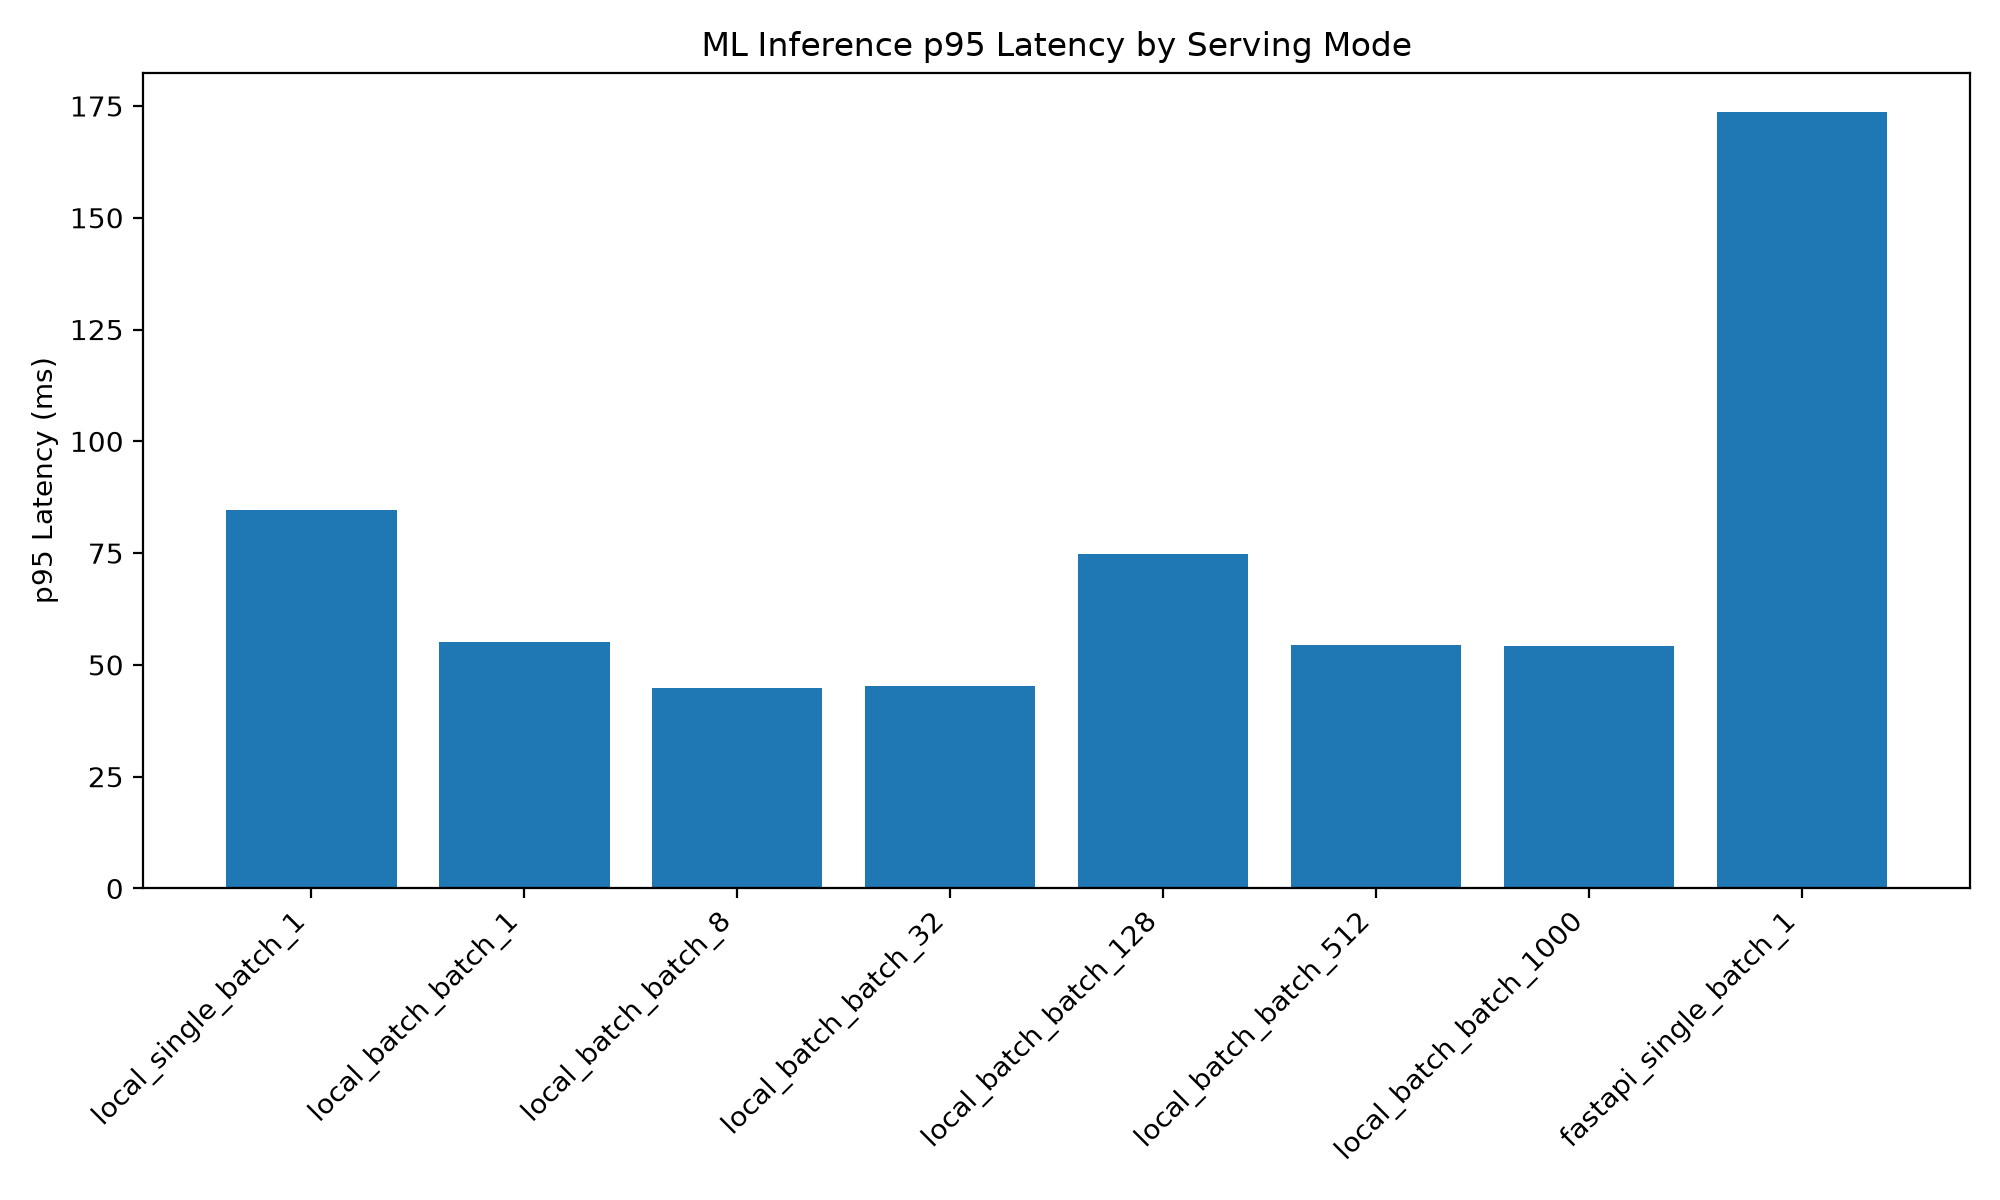
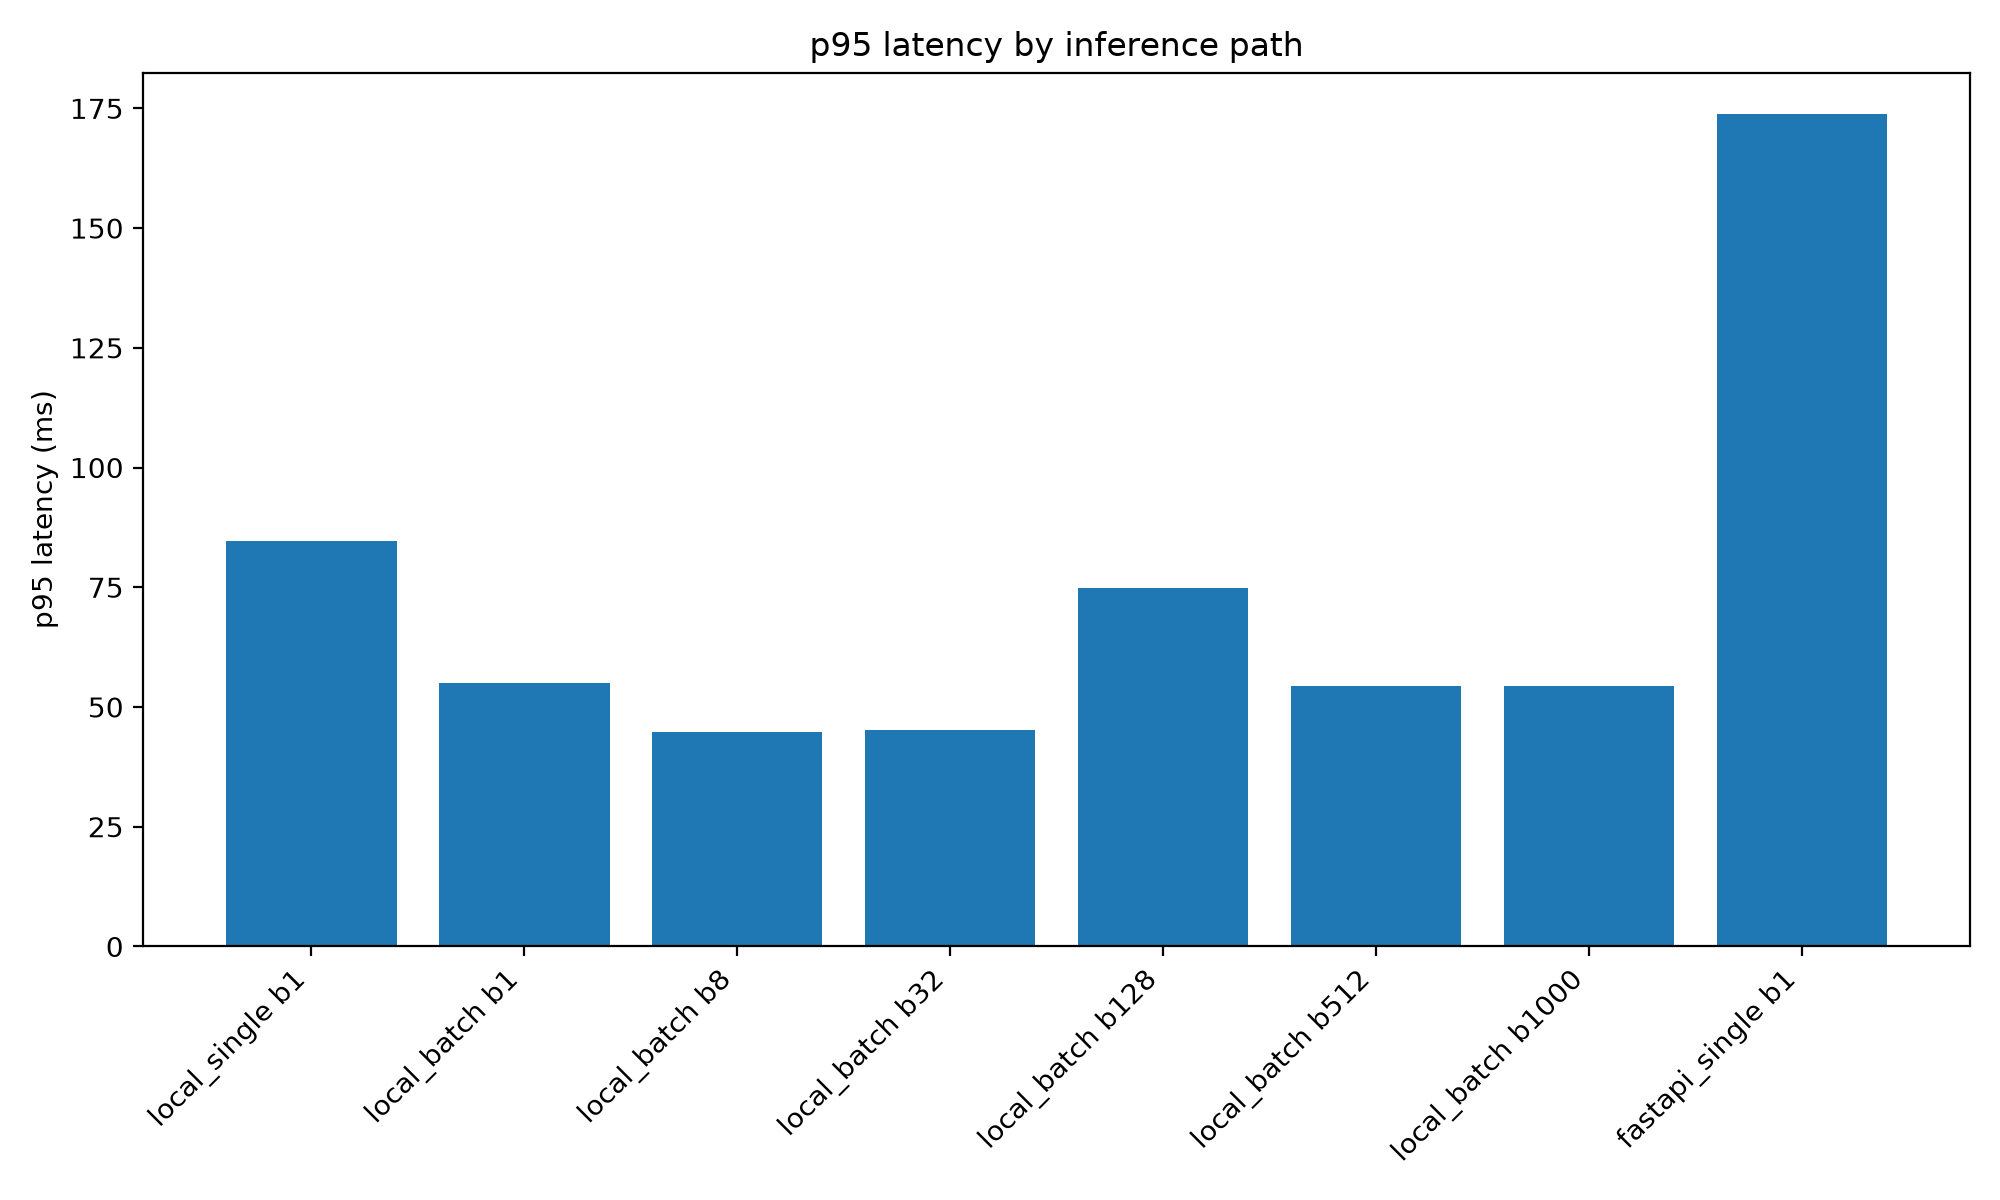
Add batch and concurrent API benchmarks

diff --git a/src/src/benchmark_batch_api.py b/src/src/benchmark_batch_api.py
@@ -1,0 +1,83 @@
+from pathlib import Path
+from time import perf_counter
+
+import numpy as np
+import pandas as pd
+import requests
+
+BASE_DIR = Path(__file__).resolve().parent.parent
+OUT_DIR = BASE_DIR / "results"
+OUT_DIR.mkdir(exist_ok=True)
+
+URL = "http://127.0.0.1:8000/predict_batch"
+
+
+def make_reading(seed: int) -> dict:
+    rng = np.random.default_rng(seed)
+
+    return {
+        "soil_moisture": float(rng.uniform(5, 90)),
+        "temperature": float(rng.uniform(10, 42)),
+        "rainfall": float(rng.uniform(0, 80)),
+        "humidity": float(rng.uniform(15, 95)),
+        "sunlight": float(rng.uniform(1, 13)),
+        "ndvi": float(rng.uniform(0.15, 0.95)),
+    }
+
+
+def latency_stats(times):
+    return {
+        "mean_latency_ms": float(np.mean(times)),
+        "p50_latency_ms": float(np.percentile(times, 50)),
+        "p95_latency_ms": float(np.percentile(times, 95)),
+        "p99_latency_ms": float(np.percentile(times, 99)),
+    }
+
+
+def run_batch(size: int, runs: int = 10) -> dict:
+    times = []
+    total_time = 0.0
+
+    for run in range(runs):
+        items = [make_reading(size * 1000 + run * 100 + i) for i in range(size)]
+
+        start = perf_counter()
+        response = requests.post(URL, json={"items": items}, timeout=30)
+        elapsed = perf_counter() - start
+
+        response.raise_for_status()
+
+        times.append(elapsed * 1000)
+        total_time += elapsed
+
+    row = {
+        "mode": "fastapi_batch",
+        "batch_size": size,
+        "runs": runs,
+        "n_predictions": size * runs,
+        "throughput_predictions_per_second": float((size * runs) / total_time),
+    }
+
+    row.update(latency_stats(times))
+    return row
+
+
+def main():
+    rows = []
+
+    for size in [1, 8, 32, 128, 512]:
+        print(f"testing batch size={size}")
+        rows.append(run_batch(size))
+
+    df = pd.DataFrame(rows)
+
+    out_file = OUT_DIR / "batch_api_benchmark_results.csv"
+    df.to_csv(out_file, index=False)
+
+    print(df)
+    print(f"\nsaved {out_file}")
+
+
+if __name__ == "__main__":
+    main()
+    